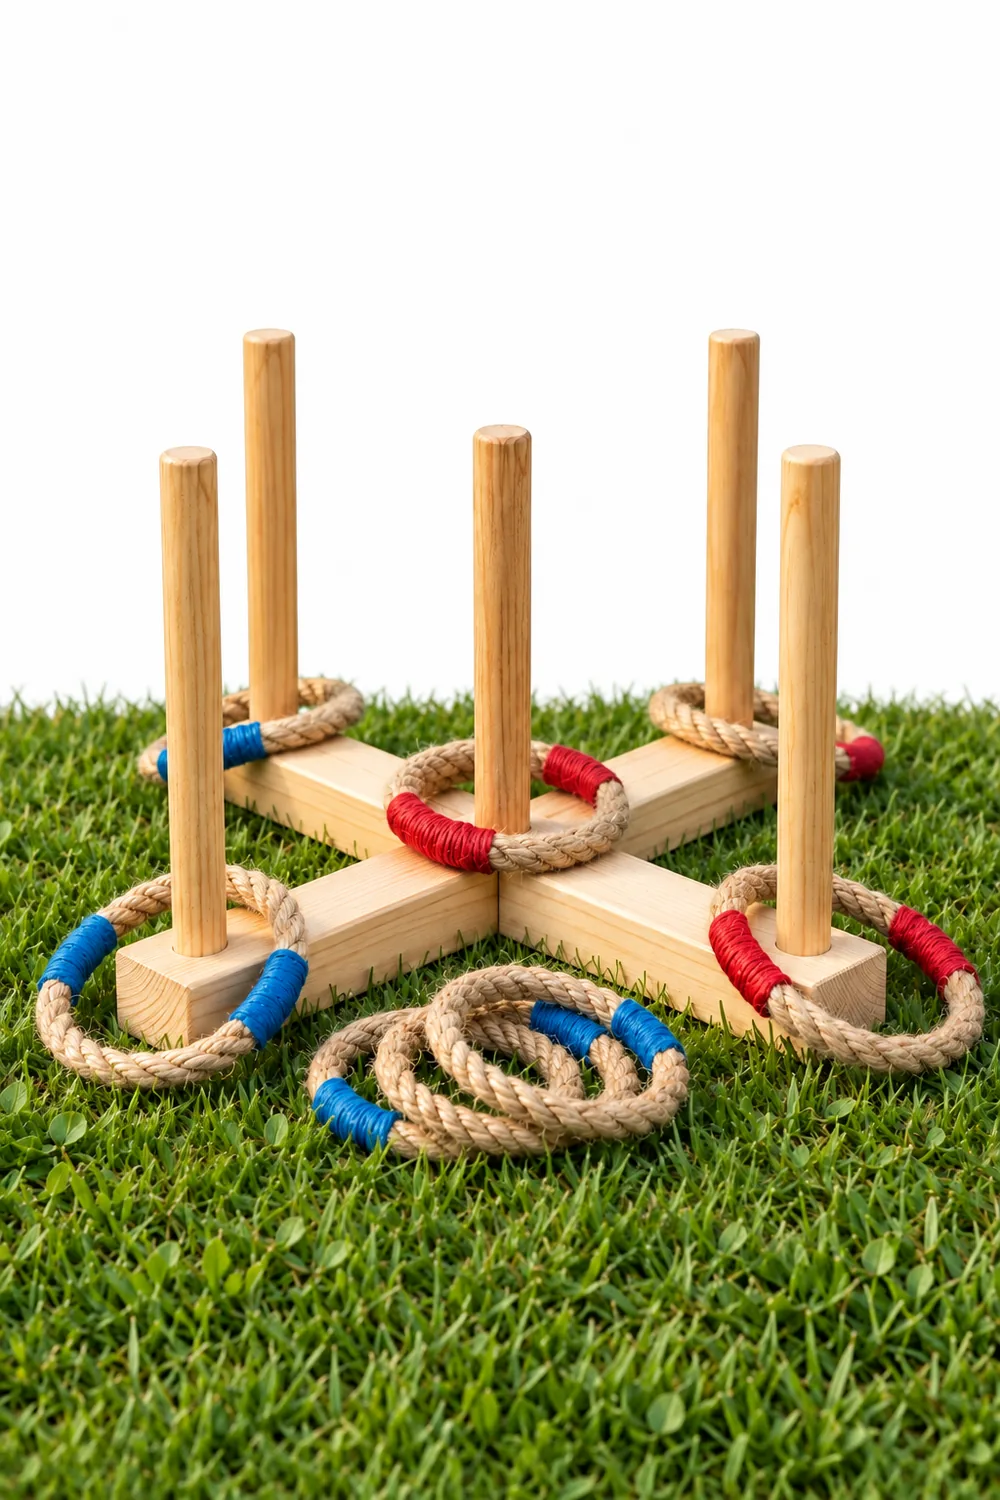
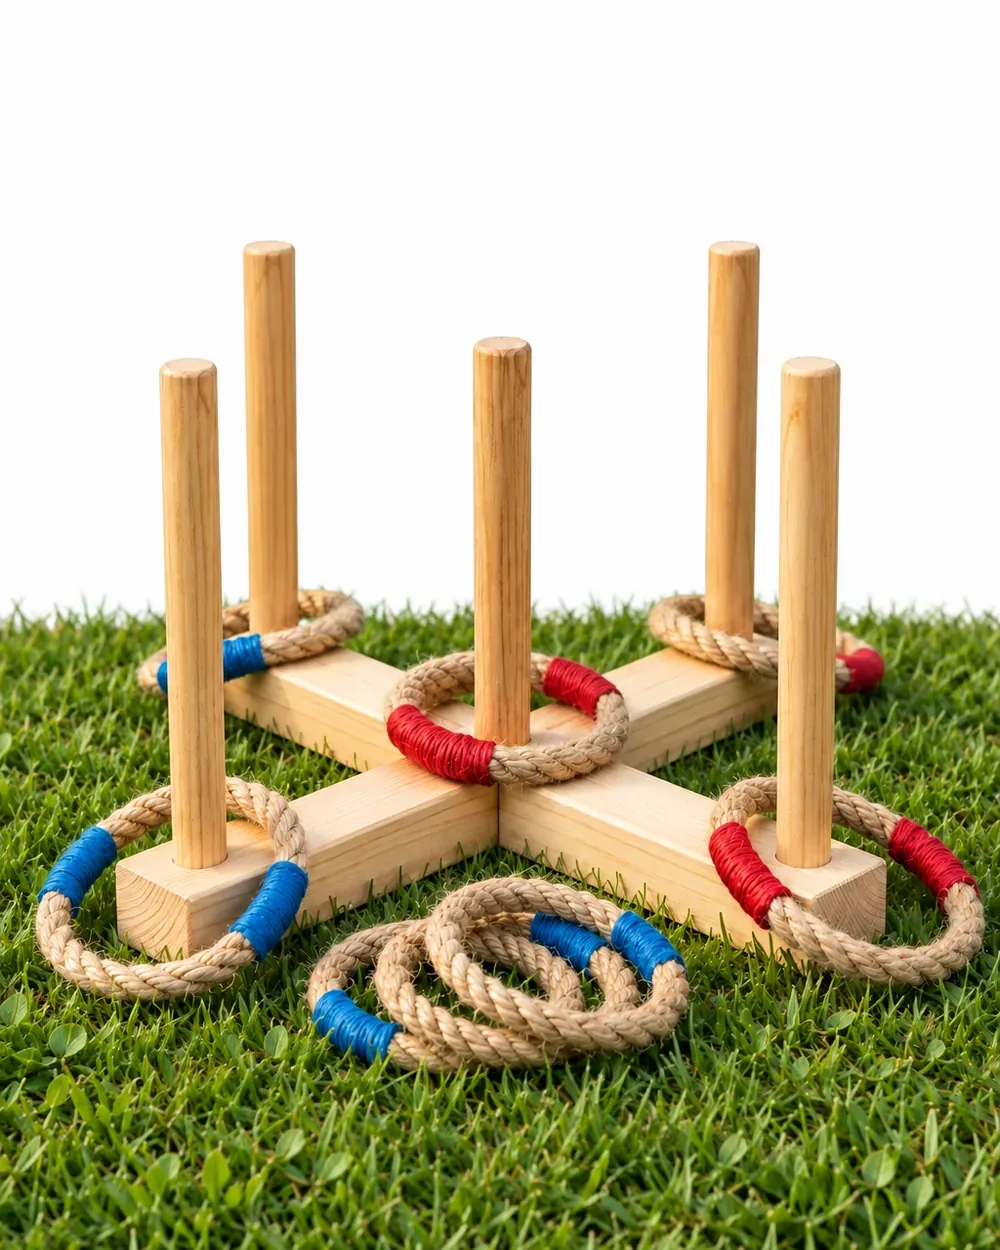
Kiltsekyd photo: 4:5 like the other cards, whole set in frame on cards and game page

diff --git a/src/data/games.js b/src/data/games.js
@@ -78,6 +78,8 @@ export const games = [
     art: 'ringtoss',
     photo: 'card-kiltsekyd',
     hero: null,
+    // the rings set fills its photo: frame it from the peg tops to the rings
+    heroPosition: '50% 50%',
     gallery: [],
     short: 'Прості правила, справжній азарт: кидай кільця й збирай бали.',
     lead: 'Прості правила, справжній азарт! Кидай кільця, збирай бали і перемагай. Весело для всіх — від малих до дорослих.',
